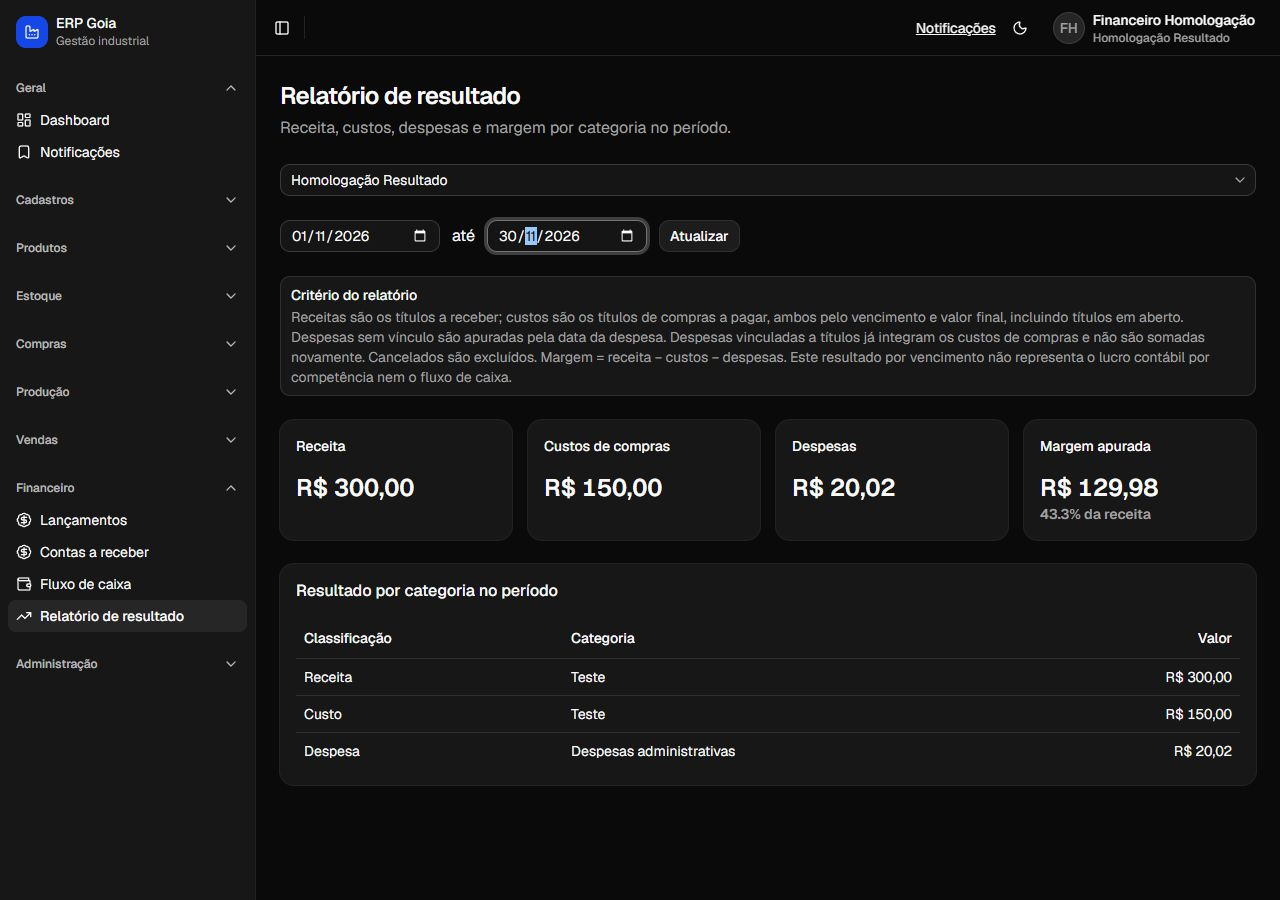
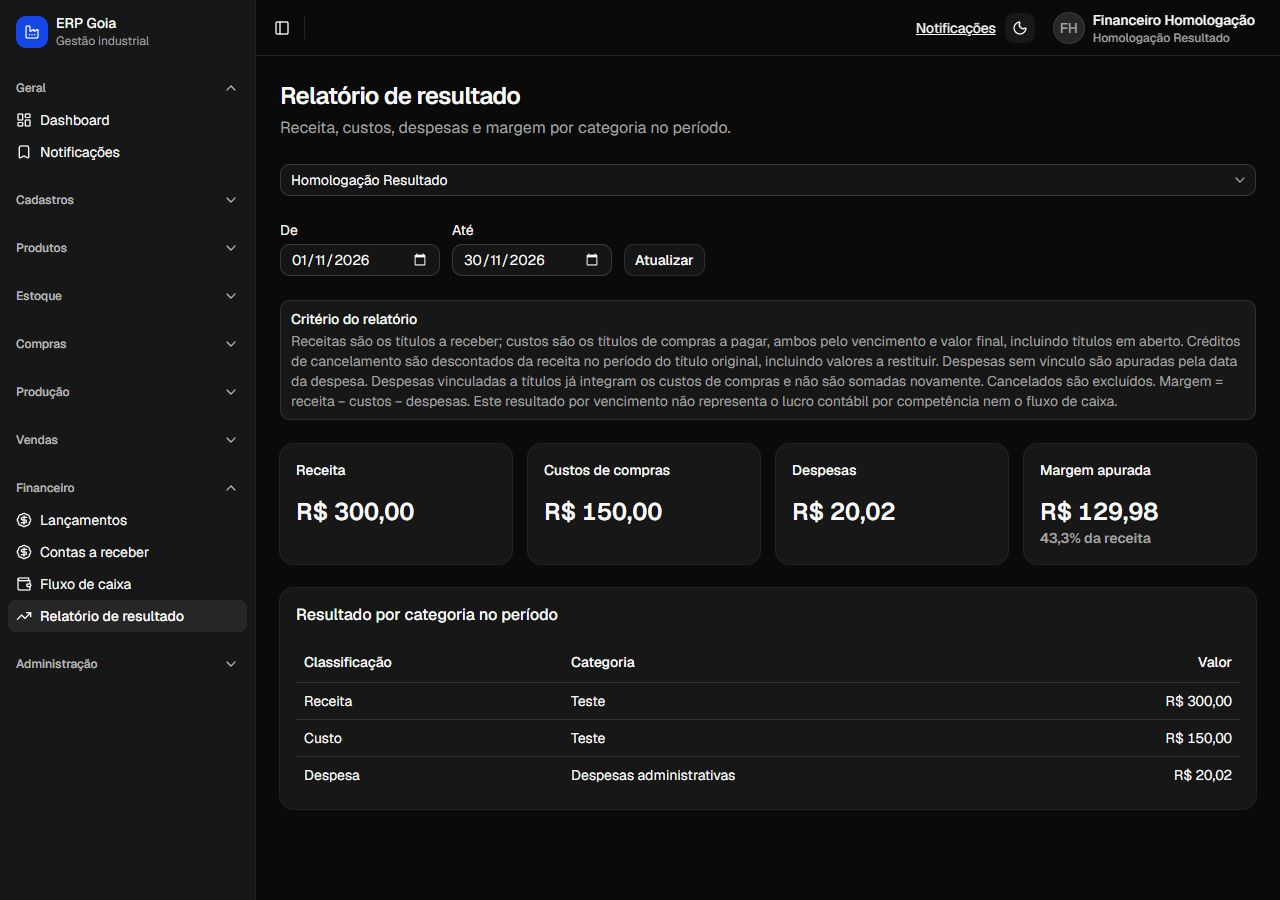
fix(financeiro): melhorar recuperacao e acessibilidade do resultado

Changed region(s): [[0.2188, 0.2178, 0.9688, 0.6222], [0.2188, 0.6533, 0.5938, 0.8711], [0.9062, 0.6844, 0.9688, 0.8711]]

diff --git a/tests/unit/resultado/resultado.test.ts b/tests/unit/resultado/resultado.test.ts
@@ -209,3 +209,87 @@ it("retorna zeros sem lançamentos", async () => {
     isolationLevel: "RepeatableRead",
   })
 })
+
+it("acumula créditos de vários títulos e mantém as categorias independentes", async () => {
+  db.contas_receber.groupBy.mockResolvedValue([
+    { id_categoria: 1, _sum: { valor_final: new Prisma.Decimal("100.10") } },
+    { id_categoria: 4, _sum: { valor_final: new Prisma.Decimal("50.00") } },
+  ])
+  db.categoria_financeira.findMany.mockResolvedValue([
+    { id: 1, nome: "Vendas A" },
+    { id: 4, nome: "Vendas B" },
+  ])
+  db.contas_receber.findMany.mockResolvedValue([
+    {
+      id_categoria: 1,
+      valor_final: new Prisma.Decimal("50.05"),
+      pedido_credito_receber: [{ valor: new Prisma.Decimal("10.01") }],
+    },
+    {
+      id_categoria: 1,
+      valor_final: new Prisma.Decimal("50.05"),
+      pedido_credito_receber: [{ valor: new Prisma.Decimal("20.02") }],
+    },
+    {
+      id_categoria: 4,
+      valor_final: new Prisma.Decimal("50.00"),
+      pedido_credito_receber: [{ valor: new Prisma.Decimal("50.00") }],
+    },
+  ])
+  const dados = await consultarResultado(periodo, ctx)
+  expect(dados.receita).toBe("70.07")
+  expect(dados.grupos.filter((g) => g.tipo === "Receita")).toEqual([
+    { tipo: "Receita", categoria: "Vendas A", valor: "70.07" },
+    { tipo: "Receita", categoria: "Vendas B", valor: "0.00" },
+  ])
+})
+it("não esconde crédito excessivo de um título no total da categoria", async () => {
+  db.contas_receber.findMany.mockResolvedValue([
+    {
+      id_categoria: 1,
+      valor_final: new Prisma.Decimal("10.00"),
+      pedido_credito_receber: [{ valor: new Prisma.Decimal("10.01") }],
+    },
+  ])
+  const res = await GET(req())
+  expect(res.status).toBe(409)
+  expect((await res.json()).error).toContain("Créditos excedem")
+})
+it("preserva margem e percentual negativos quando há prejuízo", () => {
+  expect(
+    calcularResultado([
+      { tipo: "Receita", categoria: "Vendas", valor: "100.10" },
+      { tipo: "Custo", categoria: "Insumos", valor: "150.15" },
+    ]),
+  ).toMatchObject({ margem: "-50.05", percentual: "-50.0" })
+})
+it.each([true, false])(
+  "exige permissão financeira de leitura no vínculo: %s",
+  async (podeLer) => {
+    db.usuario_empresa.findFirst.mockResolvedValue({
+      nivel_acesso: "USUARIO",
+      usuarios: { nivel_acesso: "USUARIO" },
+      permissoes_usuario: [
+        { recurso: "FINANCEIRO", pode_ler: podeLer, pode_editar: false },
+      ],
+    })
+    const resposta = await GET(req("finance-token"))
+    expect(resposta.status).toBe(podeLer ? 200 : 403)
+    if (!podeLer) expect(db.contas_receber.groupBy).not.toHaveBeenCalled()
+  },
+)
+it("exige seleção explícita quando há mais de uma empresa", async () => {
+  db.usuario_empresa.findMany.mockResolvedValue([
+    { id_empresa: 10 },
+    { id_empresa: 20 },
+  ])
+  const request = req()
+  request.headers.delete("X-Empresa-Id")
+  expect((await GET(request)).status).toBe(400)
+  expect(db.contas_receber.groupBy).not.toHaveBeenCalled()
+})
+it("aplica o limite de consultas sem executar o relatório excedente", async () => {
+  for (let i = 0; i < 120; i++) expect((await GET(req())).status).toBe(200)
+  expect((await GET(req())).status).toBe(429)
+  expect(db.contas_receber.groupBy).toHaveBeenCalledTimes(120)
+})

diff --git a/src/components/financeiro/relatorio-resultado.tsx b/src/components/financeiro/relatorio-resultado.tsx
@@ -92,22 +92,27 @@ function ResultadoEmpresa() {
   const dados = atual?.dados
   return (
     <div className="space-y-6">
-      <div className="flex flex-wrap items-center gap-3">
-        <Input
-          type="date"
-          aria-label="De"
-          value={de}
-          onChange={(e) => setDe(e.target.value)}
-          className="w-[160px]"
-        />
-        <span>até</span>
-        <Input
-          type="date"
-          aria-label="Até"
-          value={ate}
-          onChange={(e) => setAte(e.target.value)}
-          className="w-[160px]"
-        />
+      <div className="flex flex-wrap items-end gap-3">
+        <label className="flex flex-col gap-1 text-sm">
+          De
+          <Input
+            type="date"
+            aria-label="De"
+            value={de}
+            onChange={(e) => setDe(e.target.value)}
+            className="w-[160px]"
+          />
+        </label>
+        <label className="flex flex-col gap-1 text-sm">
+          Até
+          <Input
+            type="date"
+            aria-label="Até"
+            value={ate}
+            onChange={(e) => setAte(e.target.value)}
+            className="w-[160px]"
+          />
+        </label>
         <Button variant="outline" onClick={() => setRevisao((r) => r + 1)}>
           Atualizar
         </Button>
@@ -135,10 +140,17 @@ function ResultadoEmpresa() {
       ) : atual?.erro ? (
         <Alert variant="destructive">
           <AlertTitle>Não foi possível carregar o resultado</AlertTitle>
-          <AlertDescription>{atual.erro}</AlertDescription>
+          <AlertDescription>
+            {atual.erro}
+            <Button variant="outline" onClick={() => setRevisao((r) => r + 1)}>
+              Tentar novamente
+            </Button>
+          </AlertDescription>
         </Alert>
       ) : !dados ? (
-        <Skeleton aria-label="Carregando resultado" className="h-64 w-full" />
+        <div role="status" aria-label="Carregando resultado">
+          <Skeleton className="h-64 w-full" />
+        </div>
       ) : (
         <>
           <div className="grid gap-4 sm:grid-cols-2 lg:grid-cols-4">
@@ -160,7 +172,7 @@ function ResultadoEmpresa() {
                     <p className="text-sm text-muted-foreground">
                       {dados.percentual === null
                         ? "Sem receita para calcular percentual"
-                        : `${dados.percentual}% da receita`}
+                        : `${dados.percentual.replace(".", ",")}% da receita`}
                     </p>
                   )}
                 </CardContent>

diff --git a/docs/homologacao-resultado.md b/docs/homologacao-resultado.md
@@ -58,3 +58,15 @@ A revisão posterior encontrou que o cancelamento parcial preserva `valor_final`
 Uma nova base MySQL isolada confirmou dois créditos de R$ 10,01 e R$ 20,02 no mesmo título. A receita do mês passou de R$ 300,00 para R$ 269,97, e a margem de R$ 129,98 para R$ 99,95. Créditos registrados em dezembro ajustaram corretamente o vencimento de novembro. A empresa vazia continuou com receita zero. As capturas acima documentam a fixture original, sem créditos; os seus valores permanecem válidos nesse cenário.
 
 A suíte completa passou com 1.888 testes; os 20 testes específicos incluem créditos múltiplos e rejeição de créditos inválidos ou superiores ao título.
+
+## Revisão de cobertura e usabilidade
+
+A nova revisão ampliou a cobertura para 27 testes específicos e 1.895 testes na suíte completa. Foram conferidos créditos em vários títulos e categorias, crédito integral, excesso de crédito por título (HTTP 409), prejuízo com receita positiva, usuário financeiro com/sem leitura, seleção obrigatória de empresa e limite de 120 consultas por minuto.
+
+A interface passou a mostrar rótulos visíveis nas duas datas, anunciar carregamento com `role=status`, formatar percentuais com vírgula e oferecer Tentar novamente no próprio erro. Em MySQL isolado, retirar a permissão da fixture e atualizar removeu os totais e mostrou o erro; restaurar a permissão e clicar Tentar novamente recuperou receita de R$ 300,00 e margem de R$ 129,98, sem recarregar a página. As capturas desktop/móvel nos dois temas foram atualizadas; a largura móvel permaneceu em 390 px sem overflow da página.
+
+Lint, tipos, formatação, validação do Prisma e build de produção com Webpack passaram novamente. A base e a credencial temporárias foram removidas após os testes.
+
+![Falha de permissão e nova tentativa](qa/resultado-erro-recuperacao.jpg)
+
+![Consulta recuperada](qa/resultado-recuperado.jpg)
